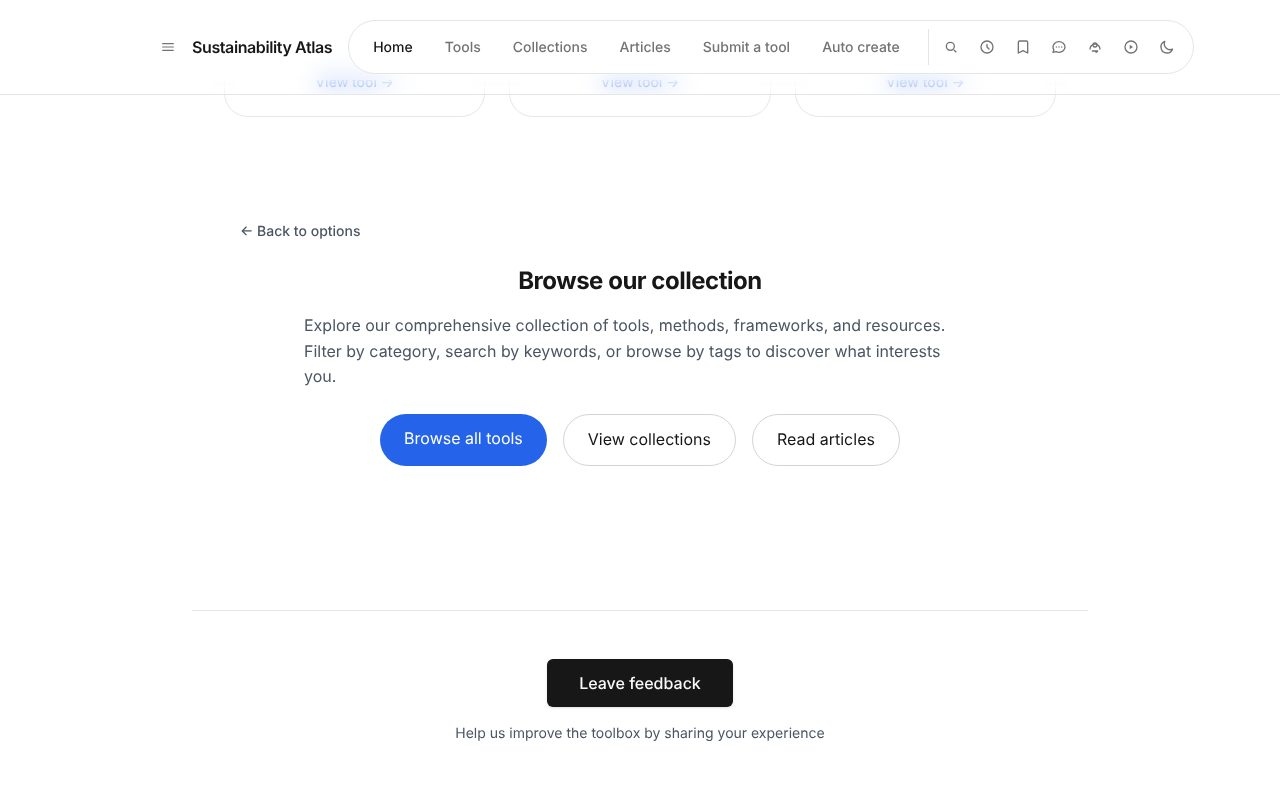
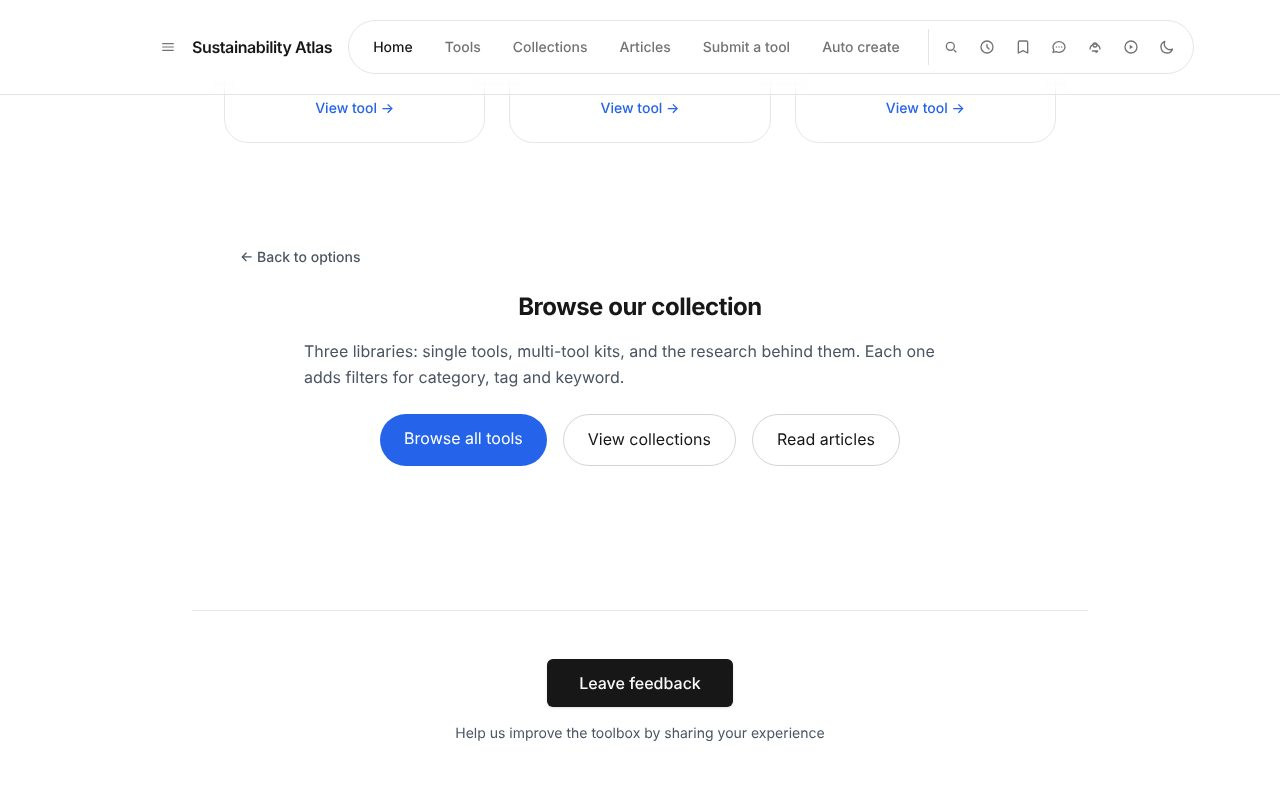
Rewrite the interface copy for clarity
The workflows were described twice, in wordings that disagreed, and
several in-page headings did not match the label you clicked to get
there: Build workflows opened "Tool Workflows", Check compatibility
opened "Tool Compatibility Checker", Find your tool ended at "Tools for
You". The menu line, the card and the heading now say the same thing in
the same voice, and each heading matches its label.

Descriptions say what a workflow does and when to use it, in a sentence
that could only describe that workflow. "Perfect for choosing the right
tool for your needs" and "discover unexpected connections" said nothing;
"up to three tools become columns and the dimensions become rows" says
what you will see.

The home page intro counted nothing and listed four audiences; it now
states the actual size of the collection, computed from the content
rather than typed in, so it cannot go stale. The three cards no longer
lean on "comprehensive" and "compendia".

"About this collection" was four paragraphs making the same point four
times, one of them ungrammatical ("They span different levels of
complexity that include simple canvases and checklists or be more
involved frameworks"). It is now two paragraphs and a note, and leads
with what is actually distinctive: every tool described the same way
across twelve dimensions, which is what makes comparison possible.

Tour screens recaptured, since several headings they show have changed.
Content from the markdown files is untouched.
[…]

diff --git a/app/components/ExploreSection.tsx b/app/components/ExploreSection.tsx
@@ -51,47 +51,47 @@ export function ExploreSection({ allResources, graphData }: ExploreSectionProps)
     {
       id: 'select',
       label: 'Overview',
-      description: 'See all the different ways you can start exploring.',
+      description: 'Start here. All nine ways to explore.',
     },
     {
       id: 'browse',
       label: 'Browse & explore',
-      description: 'Explore the full collection by category, tags, and keywords.',
+      description: 'The whole collection, filtered by category, tag or keyword.',
     },
     {
       id: 'find',
       label: 'Find your tool',
-      description: 'Answer questions to get tailored tool recommendations.',
+      description: 'Answer a few questions and get a shortlist.',
     },
     {
       id: 'compare',
       label: 'Compare tools',
-      description: 'Look at tools side by side across key dimensions.',
+      description: 'Put up to three tools side by side.',
     },
     {
       id: 'timeline',
       label: 'View by stage',
-      description: 'See which tools support each stage of your journey.',
+      description: 'Tools laid across the eight stages, ideation to maturity.',
     },
     {
       id: 'network',
       label: 'Network graph',
-      description: 'Visualize connections and related tools.',
+      description: 'See which tools are connected, and how.',
     },
     {
       id: 'workflows',
       label: 'Build workflows',
-      description: 'Combine tools into reusable step‑by‑step workflows.',
+      description: 'Chain tools into a sequence you can save and reuse.',
     },
     {
       id: 'compatibility',
       label: 'Check compatibility',
-      description: 'Identify complementary tools and overlapping ones.',
+      description: 'See what pairs with your picks, and what overlaps.',
     },
     {
       id: 'visual',
       label: 'Visual tool selector',
-      description: 'Use a visual decision tree to narrow down options.',
+      description: 'Narrow the collection down with a decision tree.',
     },
   ];
 
@@ -119,8 +119,8 @@ export function ExploreSection({ allResources, graphData }: ExploreSectionProps)
           </Button>
           <h2 className="text-2xl font-bold mb-4 text-[var(--text-primary)]">Browse our collection</h2>
           <p className="text-gray-600 dark:text-gray-400 mb-6 max-w-2xl mx-auto">
-            Explore our comprehensive collection of tools, methods, frameworks, and resources.
-            Filter by category, search by keywords, or browse by tags to discover what interests you.
+            Three libraries: single tools, multi-tool kits, and the research behind them.
+            Each one adds filters for category, tag and keyword.
           </p>
         </div>
         <div data-tour="browse-links" className="flex flex-wrap gap-4 justify-center">
@@ -343,8 +343,8 @@ export function ExploreSection({ allResources, graphData }: ExploreSectionProps)
                       Browse & explore
                     </h3>
                     <p className="text-xs sm:text-sm text-[var(--text-secondary)] leading-relaxed break-words">
-                      Explore our full collection at your own pace. Browse by category, search by keywords,
-                      or filter by tags. Perfect for discovering what's available and getting inspired.
+                      The whole collection, filtered by category, tag or keyword. Use it when you want to
+                      see what exists before committing to anything.
                     </p>
                     <div className="mt-auto pt-4 text-center text-blue-600 dark:text-blue-400 text-sm font-medium">
                       Start browsing →
@@ -359,8 +359,8 @@ export function ExploreSection({ allResources, graphData }: ExploreSectionProps)
                       Find your tool
                     </h3>
                     <p className="text-sm text-[var(--text-secondary)] leading-relaxed break-words">
-                      Answer a few quick questions about your needs, context, and goals.
-                      We'll recommend the most relevant tools tailored to your specific situation.
+                      Describe your situation instead of guessing which tag it lives under. A few questions
+                      about your goal, context and stage give you a ranked shortlist.
                     </p>
                     <div className="mt-auto pt-4 text-center text-blue-600 dark:text-blue-400 text-sm font-medium">
                       Start questionnaire →
@@ -375,8 +375,8 @@ export function ExploreSection({ allResources, graphData }: ExploreSectionProps)
                       Compare tools
                     </h3>
                     <p className="text-sm text-[var(--text-secondary)] leading-relaxed break-words">
-                      Select up to 3 tools and see how they differ across dimensions, features, and use cases.
-                      Perfect for choosing the right tool for your needs.
+                      Up to three tools become columns and the dimensions become rows. Differences that are
+                      invisible when you read pages one at a time become obvious in a row.
                     </p>
                     <div className="mt-auto pt-4 text-center text-blue-600 dark:text-blue-400 text-sm font-medium">
                       Start comparing →
@@ -391,8 +391,8 @@ export function ExploreSection({ allResources, graphData }: ExploreSectionProps)
                       View by stage
                     </h3>
                     <p className="text-sm text-[var(--text-secondary)] leading-relaxed break-words">
-                      Explore tools organized by innovation process stages, from ideation through implementation.
-                      See where each tool fits in your innovation journey.
+                      Tools laid across the eight stages, ideation to maturity, with a count for each. Click a
+                      stage to see only its tools.
                     </p>
                     <div className="mt-auto pt-4 text-center text-blue-600 dark:text-blue-400 text-sm font-medium">
                       View timeline →
@@ -407,8 +407,8 @@ export function ExploreSection({ allResources, graphData }: ExploreSectionProps)
                       Network graph
                     </h3>
                     <p className="text-sm text-[var(--text-secondary)] leading-relaxed break-words">
-                      Visualize how tools are connected through shared tags and relationships.
-                      Explore the network of interconnected resources and discover unexpected connections.
+                      Tools are nodes, shared tags are the links between them. Shows which tools sit at the
+                      centre of a topic, which bridge two areas, and which stand alone.
                     </p>
                     <div className="mt-auto pt-4 text-center text-blue-600 dark:text-blue-400 text-sm font-medium">
                       View network →
@@ -423,8 +423,8 @@ export function ExploreSection({ allResources, graphData }: ExploreSectionProps)
                       Build workflows
                     </h3>
                     <p className="text-sm text-[var(--text-secondary)] leading-relaxed break-words">
-                      Create step-by-step workflows combining multiple tools. Design custom processes
-                      for your sustainability projects and save them for future use.
+                      One tool rarely does the whole job. Chain several into a numbered sequence — map first,
+                      then assess, then align — and save it to run again.
                     </p>
                     <div className="mt-auto pt-4 text-center text-blue-600 dark:text-blue-400 text-sm font-medium">
                       Create workflow →
@@ -439,8 +439,8 @@ export function ExploreSection({ allResources, graphData }: ExploreSectionProps)
                       Check compatibility
                     </h3>
                     <p className="text-sm text-[var(--text-secondary)] leading-relaxed break-words">
-                      See which tools work well together, identify complementary tools, and spot
-                      overlaps where two tools in your selection do much the same job.
+                      Pick the tools you are considering and the rest of the collection is ranked against them:
+                      what complements your choice, and what overlaps enough that one of the two will do.
                     </p>
                     <div className="mt-auto pt-4 text-center text-blue-600 dark:text-blue-400 text-sm font-medium">
                       Check compatibility →
@@ -455,8 +455,8 @@ export function ExploreSection({ allResources, graphData }: ExploreSectionProps)
                       Visual tool selector
                     </h3>
                     <p className="text-sm text-[var(--text-secondary)] leading-relaxed break-words">
-                      Interactive decision tree with visual filters. Answer questions about your goal,
-                      audience, and timeline, then refine with sliders and toggles.
+                      The same narrowing as the questionnaire, drawn as a decision tree. Pick a goal, then a
+                      context, and watch the matches beside it shrink with every branch.
                     </p>
                     <div className="mt-auto pt-4 text-center text-blue-600 dark:text-blue-400 text-sm font-medium">
                       Start selecting →

diff --git a/app/page.tsx b/app/page.tsx
@@ -10,6 +10,8 @@ import { Button } from '@/components/ui/button';
 
 export default function HomePage() {
   const allResources = getAllResources();
+  const count = (category: string) =>
+    allResources.filter((r) => r.category === category).length;
   
   // Build graph on server side
   const graph = buildPageGraph();
@@ -32,8 +34,9 @@ export default function HomePage() {
             Tools and methods for sustainable entrepreneurship and innovation
           </p>
           <p className="text-lg md:text-xl leading-relaxed max-w-3xl mx-auto text-left text-gray-700 dark:text-gray-300">
-            An evolving collection of resources designed to help entrepreneurs, researchers,
-            educators, and practitioners integrate sustainability into their work.
+            {count('tools')} tools, {count('collections')} collections and {count('articles')} articles for
+            building sustainability into entrepreneurial and innovation work — gathered from academic
+            research, practitioner guides and established frameworks.
           </p>
         </section>
 
@@ -48,7 +51,7 @@ export default function HomePage() {
                 Tools & methods
               </h2>
               <p className="text-sm text-[var(--text-secondary)] text-center leading-relaxed">
-                Individual tools, methods, frameworks, and guides for sustainable innovation
+                Single tools you can pick up and use — canvases, frameworks, methods and guides
               </p>
             </Link>
           </div>
@@ -64,7 +67,7 @@ export default function HomePage() {
                 Collections & kits
               </h2>
               <p className="text-sm text-[var(--text-secondary)] text-center leading-relaxed">
-                Curated collections, compendia, and toolkits for comprehensive learning
+                Multi-tool kits that cover a whole process rather than one task
               </p>
             </Link>
           </div>
@@ -80,7 +83,7 @@ export default function HomePage() {
                 Academic articles
               </h2>
               <p className="text-sm text-[var(--text-secondary)] text-center leading-relaxed">
-                Peer-reviewed research on sustainable entrepreneurship and innovation
+                The peer-reviewed research behind the tools, for when you need the evidence
               </p>
             </Link>
           </div>
@@ -97,37 +100,25 @@ export default function HomePage() {
           <div className="space-y-6 text-gray-700 dark:text-gray-300 leading-relaxed">
             <ScrollAnimation direction="fade" delay={200}>
               <p>
-                This collection brings together practical tools, methods, and frameworks for integrating 
-                sustainability into entrepreneurial and innovation work. The resources here have been gathered 
-                from various sources, academic research, practitioner guides, and established frameworks, to 
-                provide a starting point for those working on sustainable innovation challenges.
+                Every tool here is described the same way: what it is for, who it suits, which stage of
+                the journey it fits, and what it asks of you before you start. That shared description is
+                what lets you compare tools properly, see which ones work together, and find the ones
+                that match your situation rather than the ones that happen to share a keyword.
               </p>
             </ScrollAnimation>
 
             <ScrollAnimation direction="fade" delay={400}>
               <p>
-                Whether you're mapping out a new concept, assessing impact, developing a strategy, or 
-                looking for ways to align your work with sustainability goals, you'll find resources that 
-                can support different stages of your process. The collection includes individual tools 
-                for specific tasks, comprehensive toolkits that cover broader processes, and academic 
-                articles that provide deeper context and validation.
+                They range from simple canvases you can hand out in a workshop to frameworks that need
+                facilitation and a few sessions. Use them when you are shaping a concept, assessing
+                impact, planning a strategy, or teaching the subject to someone else.
               </p>
             </ScrollAnimation>
 
             <ScrollAnimation direction="fade" delay={600}>
-              <p>
-                These resources may be useful if you're working on product or service design, developing 
-                business models, planning organizational change, conducting research, or teaching others 
-                about sustainable innovation. They span different levels of complexity that include simple canvases 
-                and checklists or be more involved frameworks requiring facilitation or deeper engagement.
-              </p>
-            </ScrollAnimation>
-
-            <ScrollAnimation direction="fade" delay={800}>
               <p className="text-sm text-gray-600 dark:text-gray-400 italic border-l-4 border-gray-300 dark:border-gray-600 pl-4">
-                This is a living collection that continues to evolve. Resources are organized by type 
-                and tagged across multiple dimensions to help you find what's relevant to your context 
-                and needs.
+                A living collection that keeps growing. Everything is tagged across twelve dimensions, so
+                you can narrow it down to what fits your context.
               </p>
             </ScrollAnimation>
           </div>

diff --git a/app/components/TimelineView.tsx b/app/components/TimelineView.tsx
@@ -82,9 +82,9 @@ export function TimelineView({ allResources }: TimelineViewProps) {
   return (
     <div className="max-w-6xl mx-auto">
       <div className="mb-6 sm:mb-8">
-        <h2 className="text-2xl font-bold mb-2 sm:mb-3 text-center px-2">Tools by innovation process stage</h2>
+        <h2 className="text-2xl font-bold mb-2 sm:mb-3 text-center px-2">Tools by stage</h2>
         <p className="text-center text-sm sm:text-base text-gray-600 dark:text-gray-400 max-w-2xl mx-auto px-2">
-          Explore tools organized by where they fit in the innovation journey, from initial ideation to mature implementation.
+          Eight stages, ideation to maturity. Click a stage to see only its tools; click it again to clear.
         </p>
       </div>
 

diff --git a/app/components/ToolCompatibilityChecker.tsx b/app/components/ToolCompatibilityChecker.tsx
@@ -90,9 +90,9 @@ export function ToolCompatibilityChecker({ allResources }: ToolCompatibilityChec
   return (
     <div className="max-w-7xl mx-auto">
       <div className="mb-4 sm:mb-6">
-        <h2 className="text-xl sm:text-2xl font-bold mb-2">Tool Compatibility Checker</h2>
+        <h2 className="text-xl sm:text-2xl font-bold mb-2">Check compatibility</h2>
         <p className="text-sm sm:text-base text-gray-600 dark:text-gray-400">
-          Select tools to see which ones work well together and which overlap enough that you may only need one
+          Pick the tools you are considering, and the rest of the collection is ranked against them
         </p>
       </div>
 

diff --git a/app/components/ToolFinder.tsx b/app/components/ToolFinder.tsx
@@ -218,7 +218,7 @@ export function ToolFinder({ allResources }: ToolFinderProps) {
         <div className="mb-6 sm:mb-8">
           <div className="flex flex-col sm:flex-row items-start sm:items-center justify-between mb-4 gap-3">
             <div className="flex-1">
-              <h2 className="text-2xl font-bold mb-2">Tools for You</h2>
+              <h2 className="text-2xl font-bold mb-2">Your shortlist</h2>
               <p className="text-sm sm:text-base text-gray-600 dark:text-gray-400">
                 {topMatches.length > 0 
                   ? `We've reordered ${reorderedTools.length} tools based on your answers. The most relevant are shown first.`

diff --git a/app/components/WorkflowBuilder.tsx b/app/components/WorkflowBuilder.tsx
@@ -414,9 +414,9 @@ export function WorkflowBuilder({ allResources }: WorkflowBuilderProps) {
     <div className="max-w-7xl mx-auto">
       <div className="mb-6 flex items-center justify-between">
         <div>
-          <h2 className="text-2xl font-bold mb-2">Tool Workflows</h2>
+          <h2 className="text-2xl font-bold mb-2">Build workflows</h2>
           <p className="text-gray-600 dark:text-gray-400">
-            Create step-by-step workflows combining multiple tools for your sustainability projects
+            Chain several tools into a numbered sequence you can save and run again
           </p>
         </div>
         <Button variant="ghost"

diff --git a/app/components/VisualToolSelector.tsx b/app/components/VisualToolSelector.tsx
@@ -203,9 +203,9 @@ export function VisualToolSelector({ allResources }: VisualToolSelectorProps) {
   return (
     <div className="max-w-7xl mx-auto">
       <div className="mb-6 sm:mb-8">
-        <h2 className="text-2xl font-bold mb-2">Visual Tool Selector</h2>
+        <h2 className="text-2xl font-bold mb-2">Visual tool selector</h2>
         <p className="text-sm sm:text-base text-gray-600 dark:text-gray-400">
-          Answer a few questions and use visual filters to find the perfect tools for your needs
+          Pick a goal, then a context. The matches beside the tree update with every branch
         </p>
       </div>
 

diff --git a/app/lib/tourSteps.ts b/app/lib/tourSteps.ts
@@ -43,7 +43,7 @@ export const TOUR_STEPS: TourStep[] = [
     id: 'welcome',
     chapter: 'Welcome',
     title: 'Welcome to the Sustainability Atlas',
-    body: 'Tools, kits and research for sustainable innovation — 28 tools, 20 collections and 16 articles, all classified the same way. This is a quick look at what is here. Space or the arrow keys move; Esc leaves.',
+    body: '28 tools, 20 collections and 16 articles for sustainable innovation work, all described the same way so they can be compared. This is a quick look at what is here. Space or the arrow keys move; Esc leaves.',
   },
   {
     id: 'hub',

diff --git a/app/components/MostViewedTools.tsx b/app/components/MostViewedTools.tsx
@@ -60,7 +60,7 @@ export function MostViewedTools({ allResources }: MostViewedToolsProps) {
             Most viewed tools
           </h2>
           <p className="text-sm text-gray-600 dark:text-gray-400 text-center">
-            Discover the tools our community is exploring most
+            The tools people open most often
           </p>
         </div>
 
